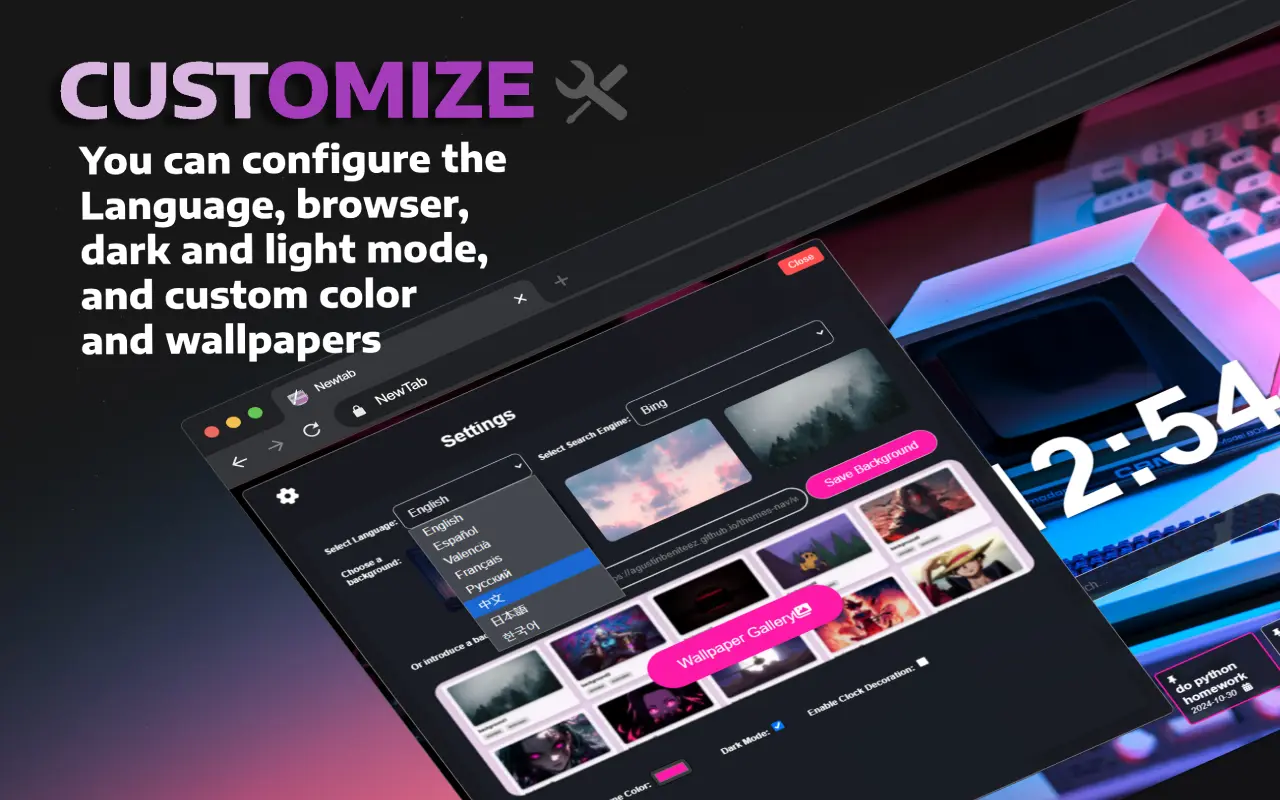
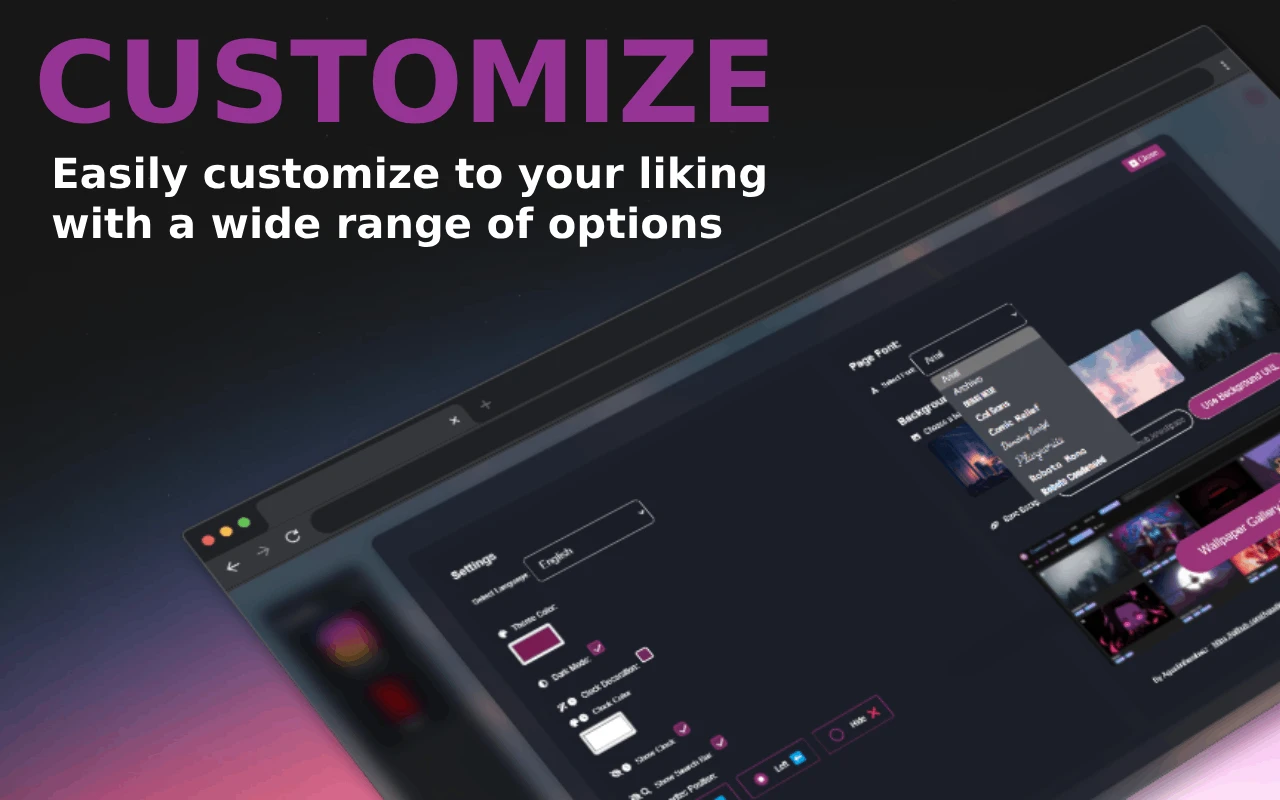
v 1.9.9

diff --git a/index.html b/index.html
@@ -127,6 +127,30 @@
         </div>
     </section>
 
+    <section class="features-section reveal-section" data-section-id="clock">
+        <div class="feature">
+            <div class="feature-image">
+                <img src="src/reloj-color.webp" alt="clock">
+            </div>
+            <div class="feature-content">
+                <h2 class="feature-title">Customiza el reloj</h2>
+                <p class="feature-description">Puedes cambiar el color del reloj y muchas cosas mas...</p>
+            </div>
+        </div>
+    </section>
+
+    <section class="features-section reveal-section" data-section-id="fonts">
+        <div class="feature">
+            <div class="feature-image">
+                <img src="src/tipografia.webp" alt="fonts">
+            </div>
+            <div class="feature-content">
+                <h2 class="feature-title">Personaliza las tipografías</h2>
+                <p class="feature-description">Selecciona las tipografías que quieras utilizar en la extension. Esto te ayudará a personalizar tu experiencia de navegación.</p>
+            </div>
+        </div>
+    </section>
+
     <section class="features-section reveal-section" data-section-id="organization">
         <div class="feature">
             <div class="feature-image">

diff --git a/js/translations.js b/js/translations.js
@@ -52,7 +52,7 @@ function applyTranslations() {
     const featureDescriptions = document.querySelectorAll('.feature-description');
     
     // Mapeo de índices a claves de características
-    const featureKeys = ['customization', 'theme', 'favorites', 'notes', 'download'];
+    const featureKeys = ['customization', 'theme', 'favorites', 'clock', 'fonts', 'notes', 'download'];
     
     featureTitles.forEach((title, index) => {
         if (featureKeys[index]) {
